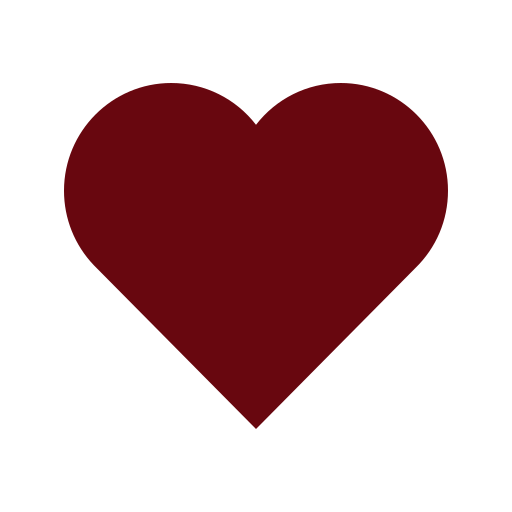
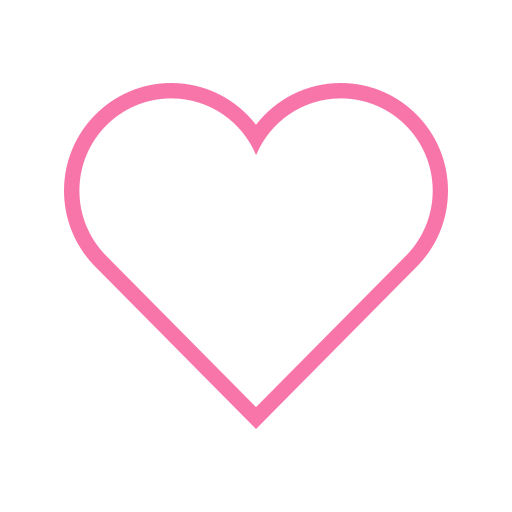
Added like comment routings <app-likecomment> and integrated it

diff --git a/postbook-angular/src/app/components/likecomment/likecomment.component.html b/postbook-angular/src/app/components/likecomment/likecomment.component.html
@@ -1,21 +1,21 @@
 <div class="d-flex row justify-content-center">
-    <div class="col-6 text-center">
+    <div class="col-6 text-center"  style="background-color: #ECECEC; padding: 5px; border-radius: 5px;">
         <a (click)="toggleLike()">
-            <img [src]="isLiked ? '../../../assets/images/uvu.jpg' : '../../../assets/images/heart.png'" alt="img" width="25px" height="25px" class="mr-3">
-        </a> &nbsp;
+            <img [src]="isLiked ? '../../../assets/images/liked.png' : '../../../assets/images/like.png'" alt="img" width="30px" height="30px" class="mr-3">
+        </a>
+        &nbsp;
         <span *ngIf="likeCount > 0" (click)="toggleLikesDropdown()">{{ likeCount }}</span>
         <div *ngIf="showLikesDropdown" class="likes-dropdown">
             <p *ngFor="let likedUser of likedUsers">{{ likedUser }}</p>
         </div>
     </div>
-
+    
     <div class="col-6 text-center">
         <a (click)="toggleCommentsVisibility()">
             <img src="../../../assets/images/comment.png" alt="img" width="25px" height="25px" class="mr-3">
         </a>
     </div>
-</div>
-
+    
 <!-- Comments section -->
 <div *ngIf="showComments" class="bg-light p-2">
     <div class="d-flex flex-row align-items-start">
@@ -23,8 +23,9 @@
         <textarea class="form-control ml-1 shadow-none textarea"></textarea>
     </div>
     <div class="mt-2 text-right">
-        <button class="btn btn-primary btn-sm" type="button" style="background-color: #68070f;">Comment</button>
-        <button class="btn btn-primary btn-sm ml-1 shadow-none" type="button" style="background-color: #0B2154;">Cancel</button>
+        <button class="btn btn-danger btn-sm" type="button" style="background-color: #F875AA;">Comment</button>
+        &nbsp;
+        <button class="btn btn-primary btn-sm ml-1 shadow-none" type="button" style="background-color: #AEDEFC;">Cancel</button>
     </div>
     <div *ngFor="" class="media mb-3">
         <img src="assets/images/work.jpg" alt="img" width="45px" height="45px" class="rounded-circle mr-2">

diff --git a/postbook-angular/src/app/pages/home/home.component.html b/postbook-angular/src/app/pages/home/home.component.html
@@ -52,27 +52,8 @@
                                 <p class="card-text" (click)="onPostClick(post)">{{post.content}}</p>
                             </div>
                         </div>
-                        <div class="d-flex row justify-content-center">
-                            <div class="col-6 custom-border text-center">
-                                <a href="#">
-                                    <img src="../../../assets/images/heart.png" alt="img" width="25px" height="25px" class="mr-3">
-                                </a>
-                            </div>
-                        </div>
-                    </div>
-                    <div class="bg-light p-2 d-flex align-items-center">
-                      <div class="d-flex align-items-center flex-grow-1">
-                        <img class="rounded-circle me-2" [src]="user.profilePicture" width="30">
-                        <textarea class="form-control flex-grow-1 me-2" style="resize: none;"></textarea>
-                      </div>
-                      <div class="mt-2 text-right">
-                        <button class="btn btn-primary btn-sm" type="button" style="background-color: #68070f;">Comment</button>
-                      </div>
-                    </div>
+                        <app-likecomment></app-likecomment>
                                        
                 </div>
             </div>
-        </ng-template>
       </div>     
-  </div>
-</div>

diff --git a/postbook-angular/src/app/pages/wall/wall.component.html b/postbook-angular/src/app/pages/wall/wall.component.html
@@ -24,23 +24,7 @@
                     </div>
                 </div>
 
-                <div class="d-flex row justify-content-center">
-                    <div class="col-6 custom-border text-center">
-                        <a href="#">
-                            <img src="../../../assets/images/heart.png" alt="img" width="25px" height="25px" class="mr-3">
-                        </a>
-                    </div>
-                
-                    <div class="col-6 custom-border text-center">
-                        <a href="">
-                            <img src="../../../assets/images/comment.png" alt="img" width="25px" height="25px" class="mr-3">
-                        </a>
-                    </div>
-                </div>
-            </div>
-            <div class="bg-light p-2">
-                <div class="d-flex flex-row align-items-start"><img class="rounded-circle" [src]="post.user?.profilePicture" width="40"><textarea class="form-control" style="resize: none;"></textarea></div>
-                <div class="mt-2 text-right"><button class="btn btn-primary btn-sm" type="button" style="background-color: #68070f;">Comment</button></div>
+                <app-likecomment></app-likecomment>
             </div>
         </div>
     </div>

diff --git a/postbook-angular/src/app/app.module.ts b/postbook-angular/src/app/app.module.ts
@@ -41,6 +41,7 @@ import { OtheralbumComponent } from './pages/otheralbum/otheralbum.component';
 import { OtherwallComponent } from './pages/otherwall/otherwall.component';
 import { SinglephotomodalComponent } from './components/singlephotomodal/singlephotomodal.component';
 import { EditAlbumModalComponent } from './components/edit-album-modal/edit-album-modal.component';
+import { LikecommentComponent } from '@components/likecomment/likecomment.component';
 
 const appRoutes: Routes = [
   // Does not need to login to access but should have no token to access
@@ -49,6 +50,7 @@ const appRoutes: Routes = [
   {path: 'login', component: LoginComponent},
   {path: 'forgotpassword', component: ForgotpasswordComponent},
   {path: 'page-not-found', component: NotFoundComponent},
+  {path: 'likecomment', component: LikecommentComponent},
 
   // Needs token to access
   {path: '', component: HomeComponent},
@@ -103,7 +105,8 @@ const appRoutes: Routes = [
     OtherwallComponent,
     OtherprofileComponent,
     SinglephotomodalComponent,
-    EditAlbumModalComponent 
+    EditAlbumModalComponent ,
+    LikecommentComponent
 
 
   ],
